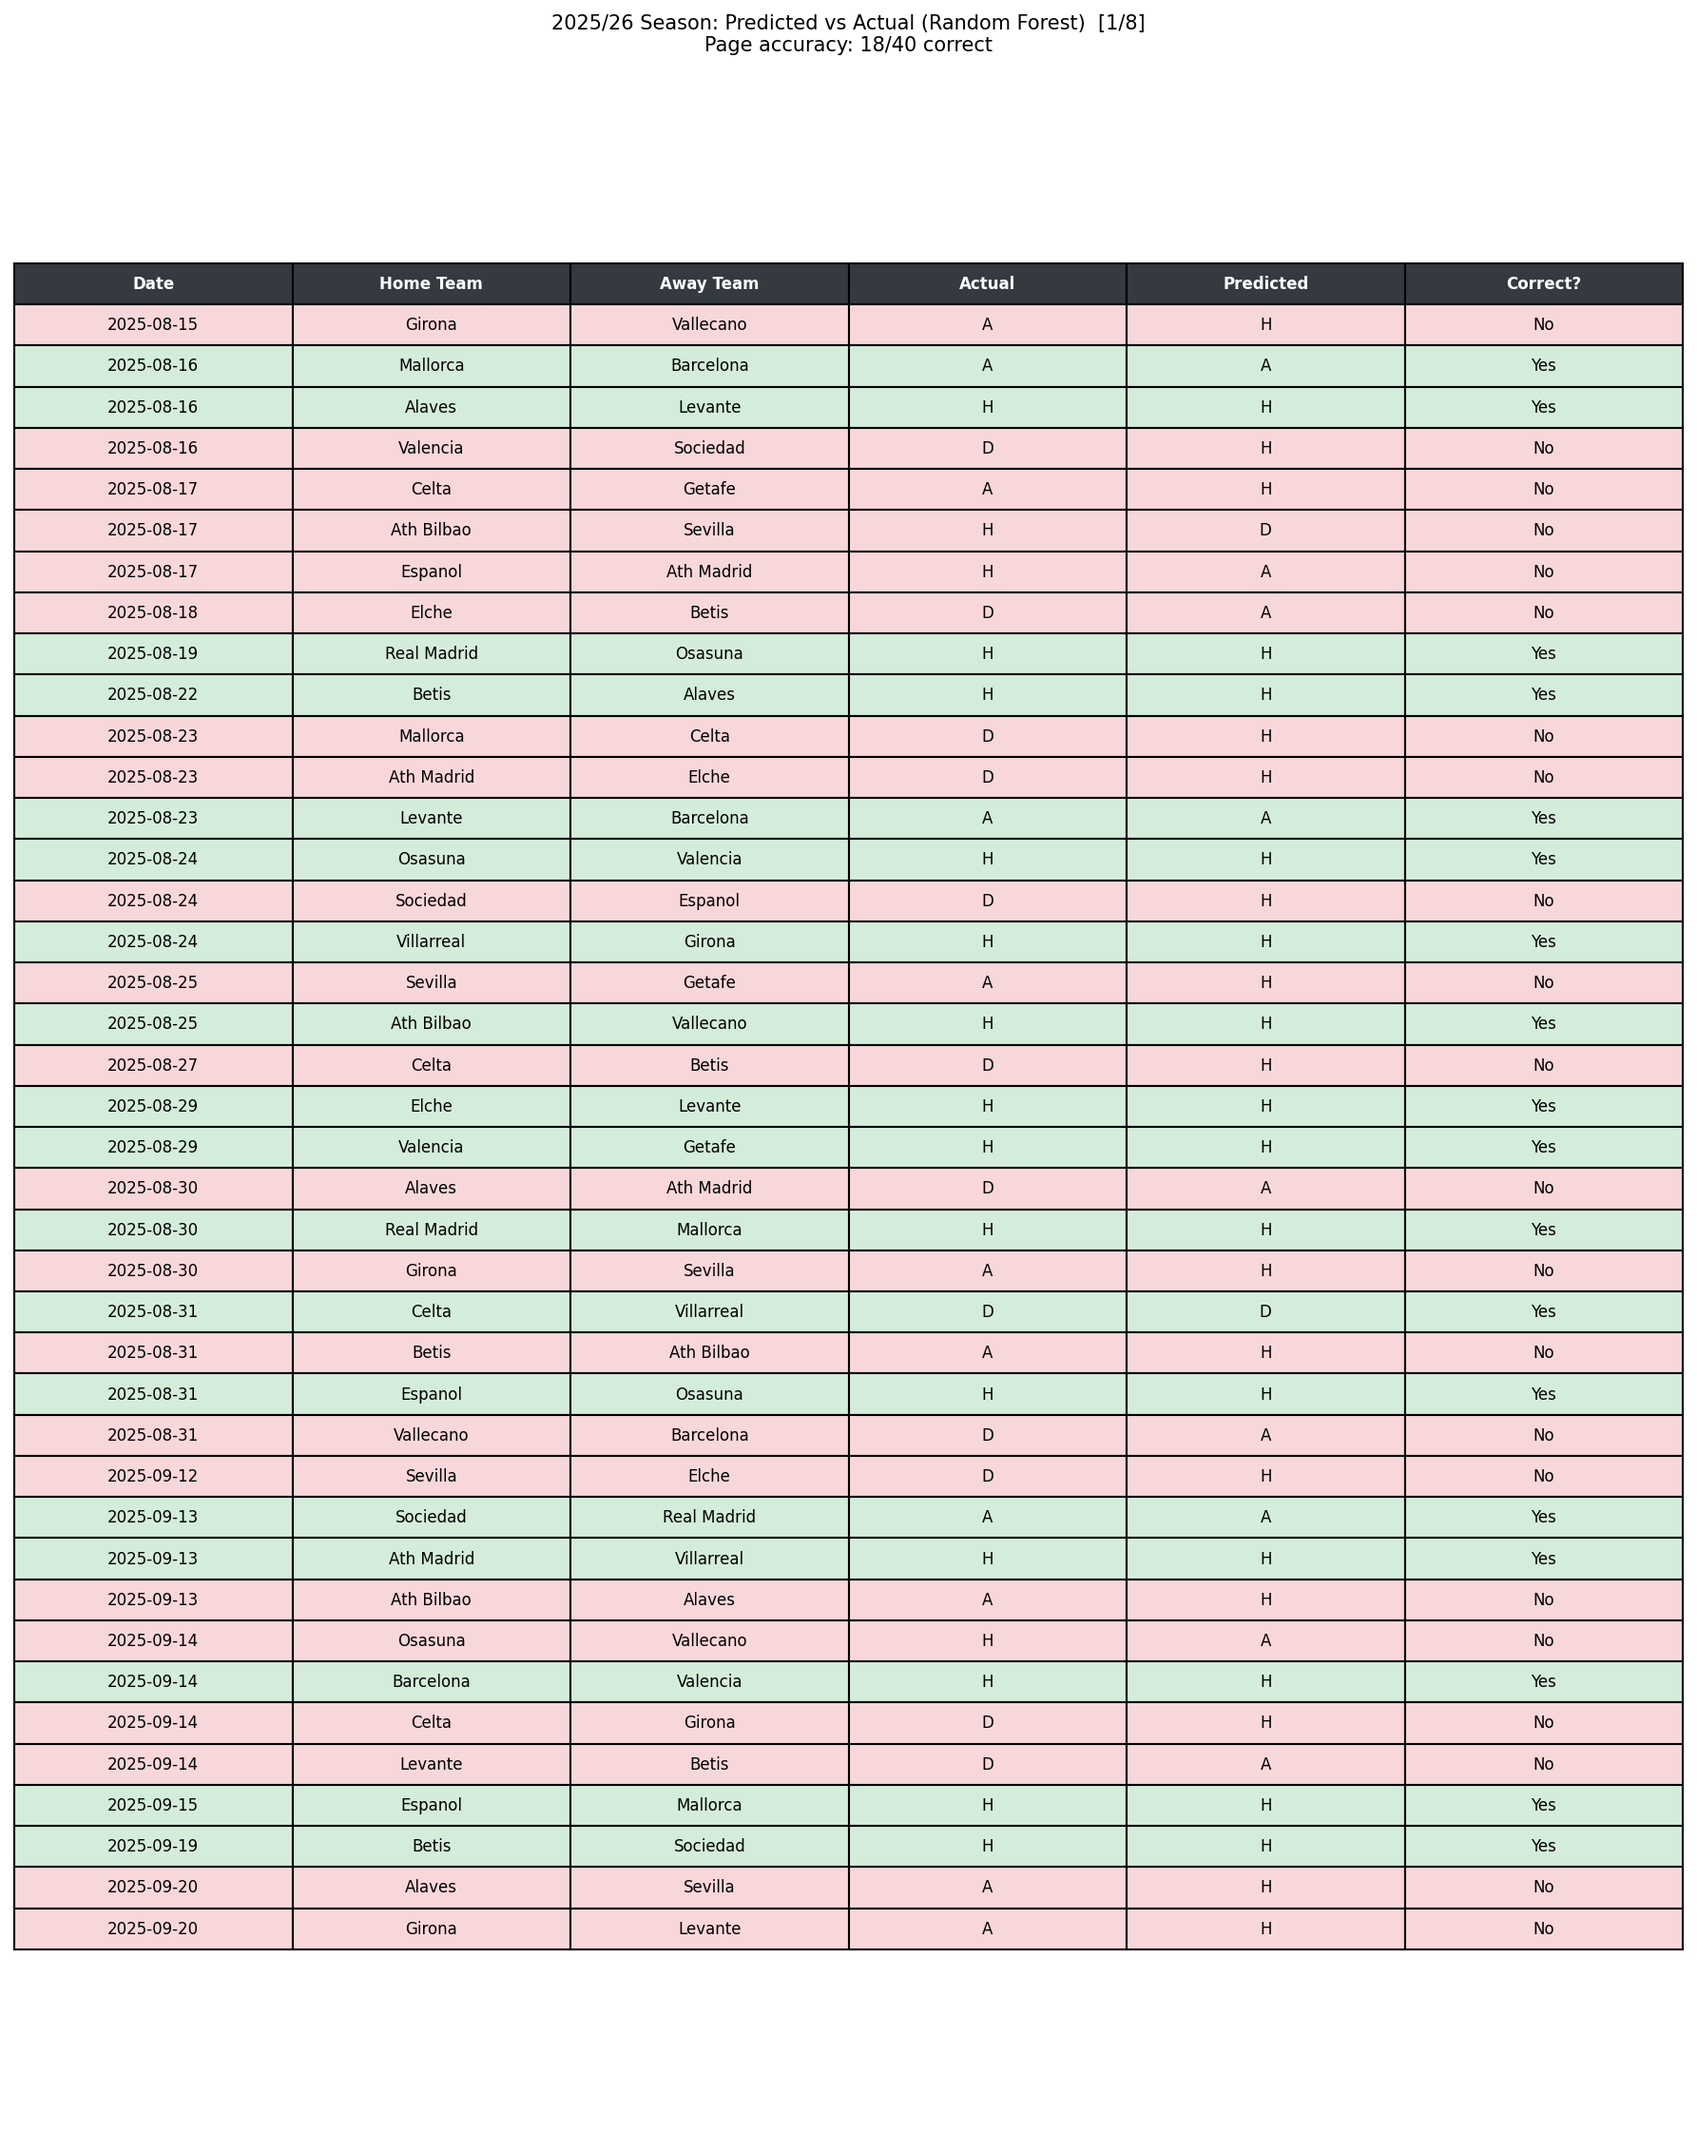
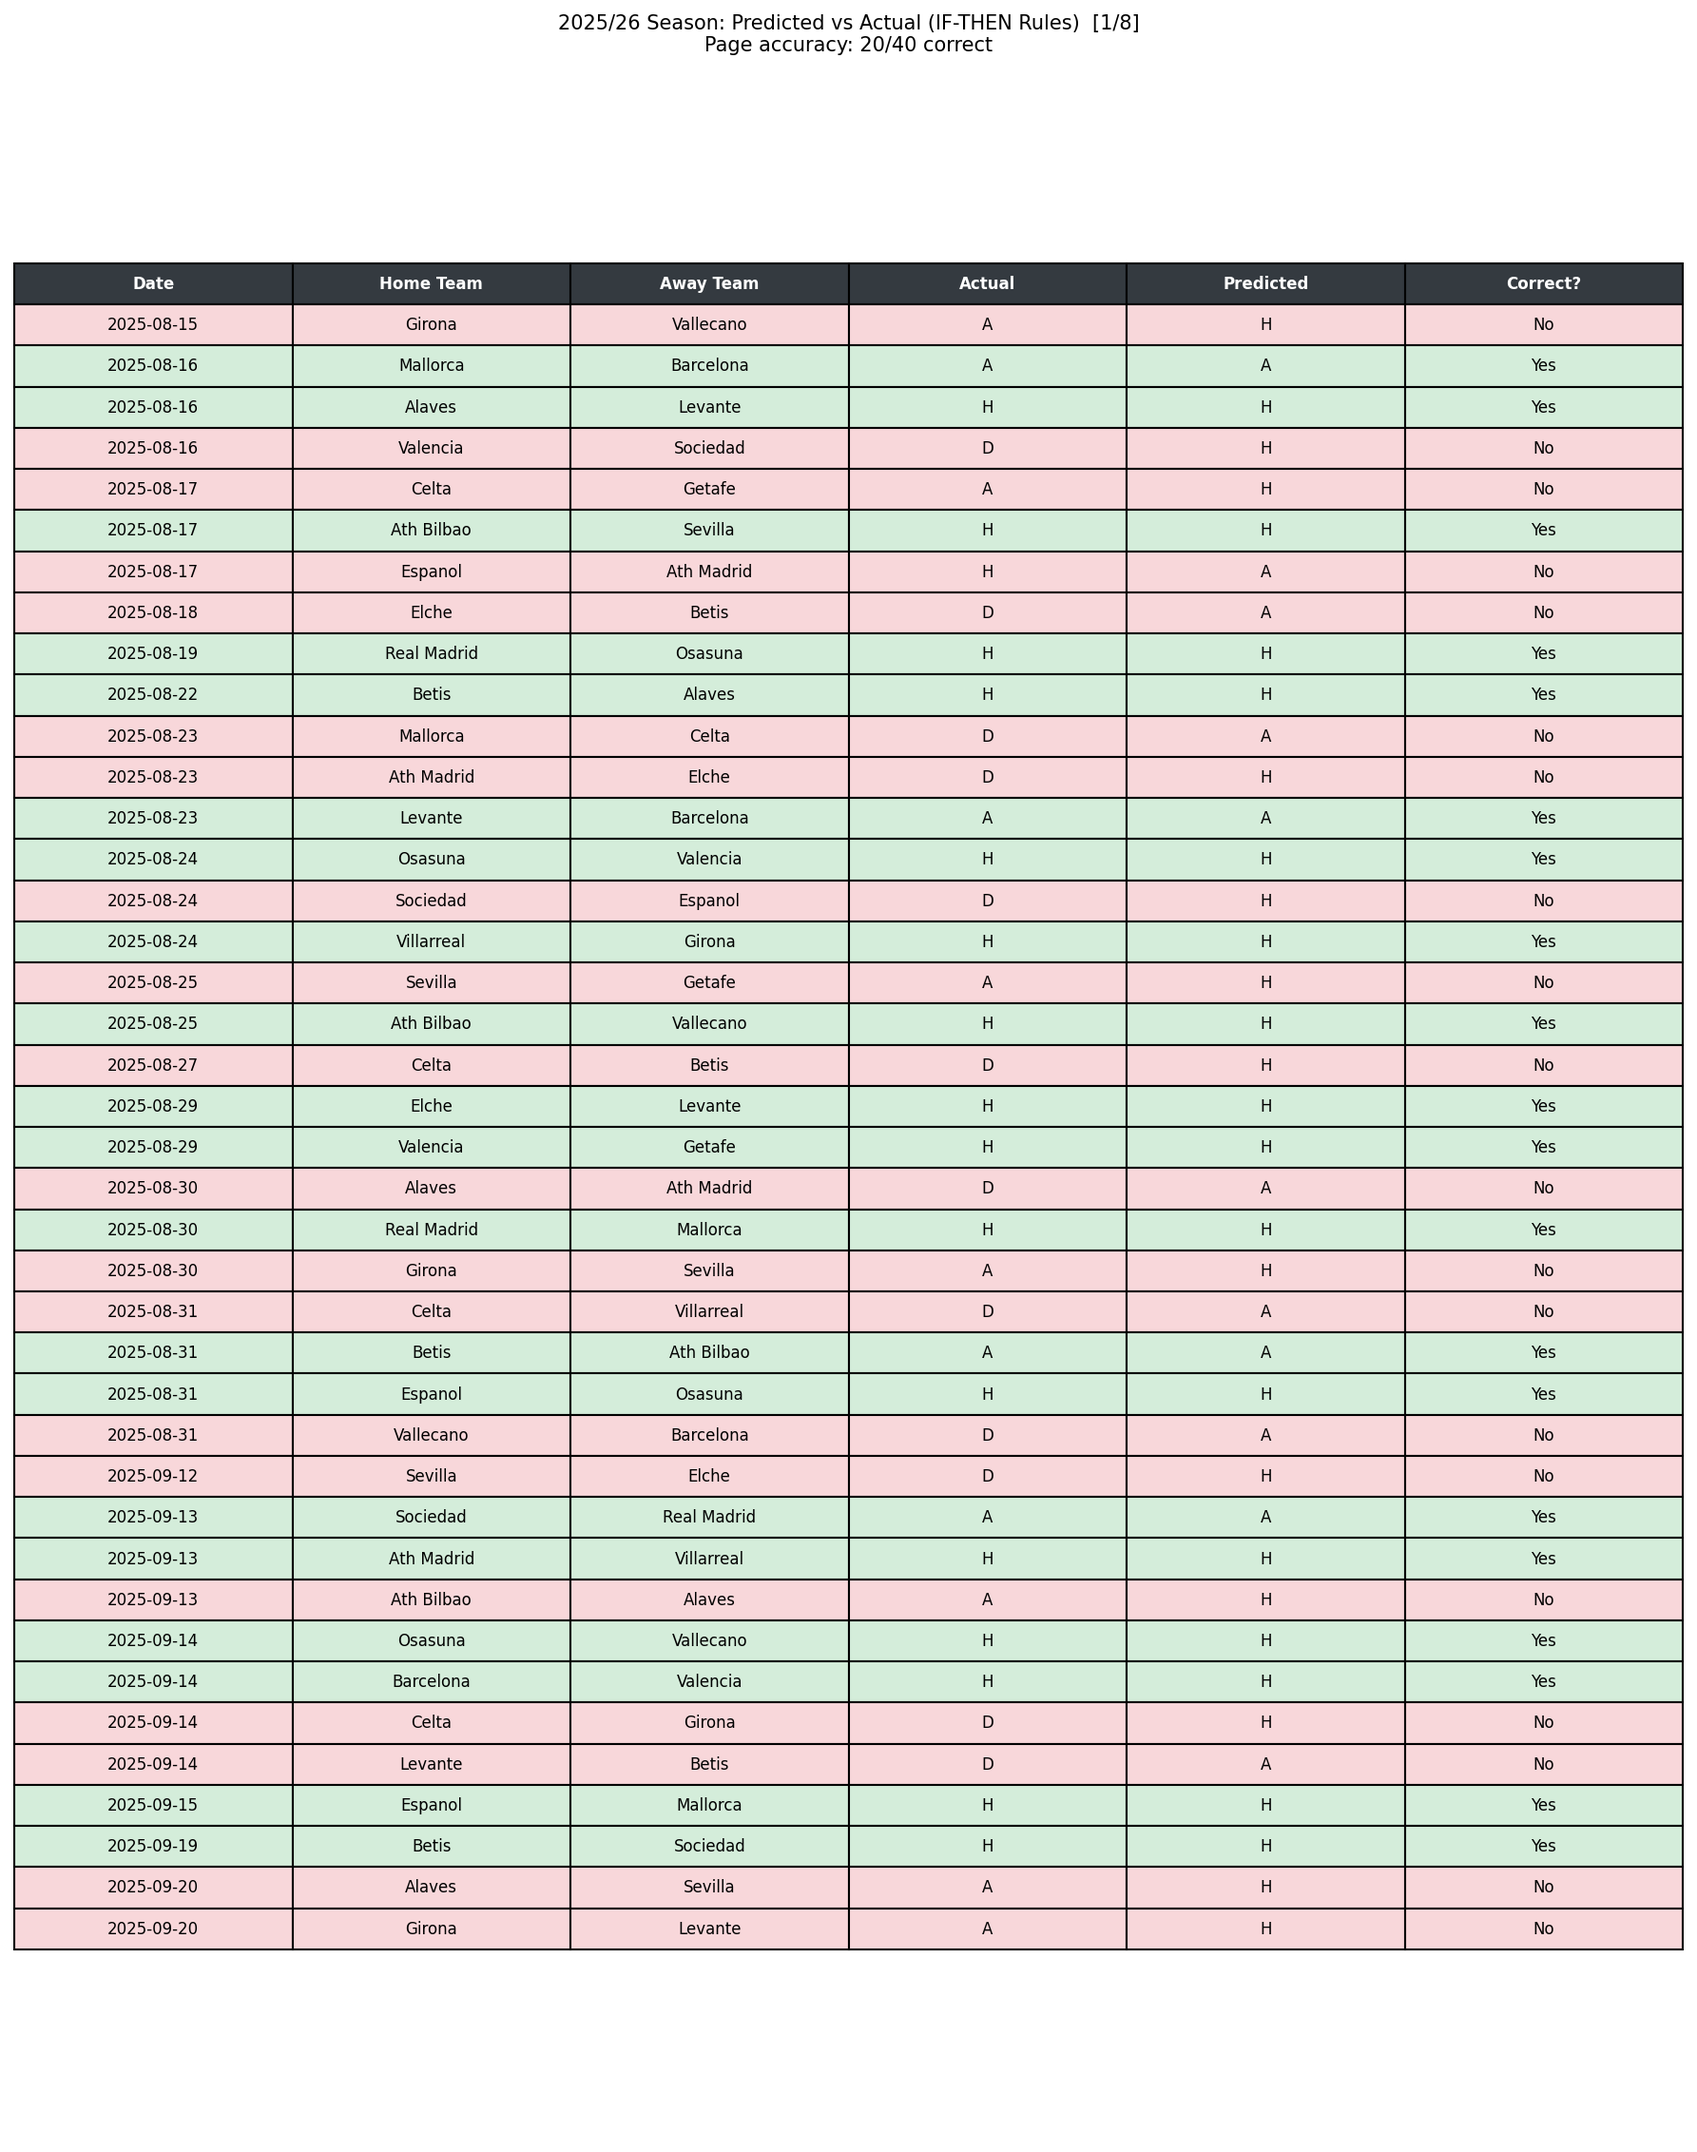
updating classification methods

diff --git a/src/classification.py b/src/classification.py
@@ -4,6 +4,7 @@ from sklearn.preprocessing import LabelEncoder, StandardScaler
 from sklearn.linear_model import LogisticRegression
 from sklearn.tree import DecisionTreeClassifier
 from sklearn.ensemble import RandomForestClassifier
+from sklearn.naive_bayes import GaussianNB
 from sklearn.metrics import accuracy_score, confusion_matrix, classification_report
 import matplotlib.pyplot as plt
 import os
@@ -214,19 +215,67 @@ baseline_acc = accuracy_score(y_test, baseline_preds)
 print(f"\nBaseline accuracy (always predict '{le.classes_[most_common]}'): {baseline_acc:.3f}")
 
 # ------------------------------------------------------------------------------------
+# IF-THEN Rules Classifier
+# Implements the "Using IF-THEN Rules for Classification" approach from lecture notes.
+# Rules are based on implied betting probabilities — the strongest signal in the data.
+# Thresholds are fitted by grid search over training data.
+# Label encoding (alphabetical): A=0, D=1, H=2
+# ------------------------------------------------------------------------------------
+class RuleBasedClassifier:
+    """
+    IF implied_home_prob >= home_thresh  THEN predict H (home win)
+    ELIF implied_away_prob >= away_thresh THEN predict A (away win)
+    ELSE                                  predict D (draw)
+    """
+    def __init__(self):
+        self.home_thresh = 0.45
+        self.away_thresh = 0.38
+
+    def fit(self, X, y):
+        # Grid search over threshold pairs to maximise training accuracy
+        best_acc, best_h, best_a = -1, self.home_thresh, self.away_thresh
+        for h_t in np.arange(0.30, 0.65, 0.05):
+            for a_t in np.arange(0.25, 0.55, 0.05):
+                preds = self._apply(X, h_t, a_t)
+                acc = (preds == y).mean()
+                if acc > best_acc:
+                    best_acc, best_h, best_a = acc, h_t, a_t
+        self.home_thresh = best_h
+        self.away_thresh = best_a
+        print(f"  IF-THEN Rules fitted: home_thresh={best_h:.2f}, away_thresh={best_a:.2f}")
+        return self
+
+    def predict(self, X):
+        return self._apply(X, self.home_thresh, self.away_thresh)
+
+    def _apply(self, X, home_thresh, away_thresh):
+        implied_home = X[:, 0]   # implied_home_prob
+        implied_away = X[:, 2]   # implied_away_prob
+        preds = np.where(
+            implied_home >= home_thresh, 2,          # H
+            np.where(implied_away >= away_thresh, 0, # A
+                     1)                               # D
+        )
+        return preds
+
+
+# ------------------------------------------------------------------------------------
 # Train Models
 # class_weight='balanced' makes models try to predict draws instead of ignoring them
 # ------------------------------------------------------------------------------------
 models = {
     "Logistic Regression": LogisticRegression(max_iter=1000, random_state=42, class_weight="balanced"),
+    "Naive Bayes":         GaussianNB(),
     "Decision Tree":       DecisionTreeClassifier(max_depth=5, random_state=42, class_weight="balanced"),
     "Random Forest":       RandomForestClassifier(n_estimators=100, random_state=42, class_weight="balanced"),
+    "IF-THEN Rules":       RuleBasedClassifier(),
 }
 
 results = {}
 for name, model in models.items():
-    X_tr = X_train_scaled if name == "Logistic Regression" else X_train
-    X_te = X_test_scaled  if name == "Logistic Regression" else X_test
+    uses_scaled = name in ("Logistic Regression", "Naive Bayes")
+    X_tr = X_train_scaled if uses_scaled else X_train
+    X_te = X_test_scaled  if uses_scaled else X_test
 
     model.fit(X_tr, y_train)
     preds = model.predict(X_te)
@@ -287,10 +336,11 @@ plt.close()
 print("Saved feature_importance.png")
 
 # 3. Model Accuracy Comparison
-fig, ax = plt.subplots(figsize=(6, 4))
+fig, ax = plt.subplots(figsize=(10, 4))
 names = list(results.keys())
 accs  = [results[n]["accuracy"] for n in names]
-bars = ax.bar(names, accs, color=["#4C72B0", "#DD8452", "#55A868"])
+colors = ["#4C72B0", "#C44E52", "#DD8452", "#55A868", "#8172B2"]
+bars = ax.bar(names, accs, color=colors[:len(names)])
 ax.axhline(baseline_acc, color="red", linestyle="--", label=f"Baseline ({baseline_acc:.2f})")
 ax.set_ylim(0, 1)
 ax.set_ylabel("Accuracy")

diff --git a/README.md b/README.md
@@ -41,6 +41,3 @@ High fouls (>15), many cards (>3), high shots (>12)
 Outcome: upset (favorite lost based on odds)
 
 Use: Apriori algorithm to find rules like "High fouls + Away team → Red card likely"
-
-
-
